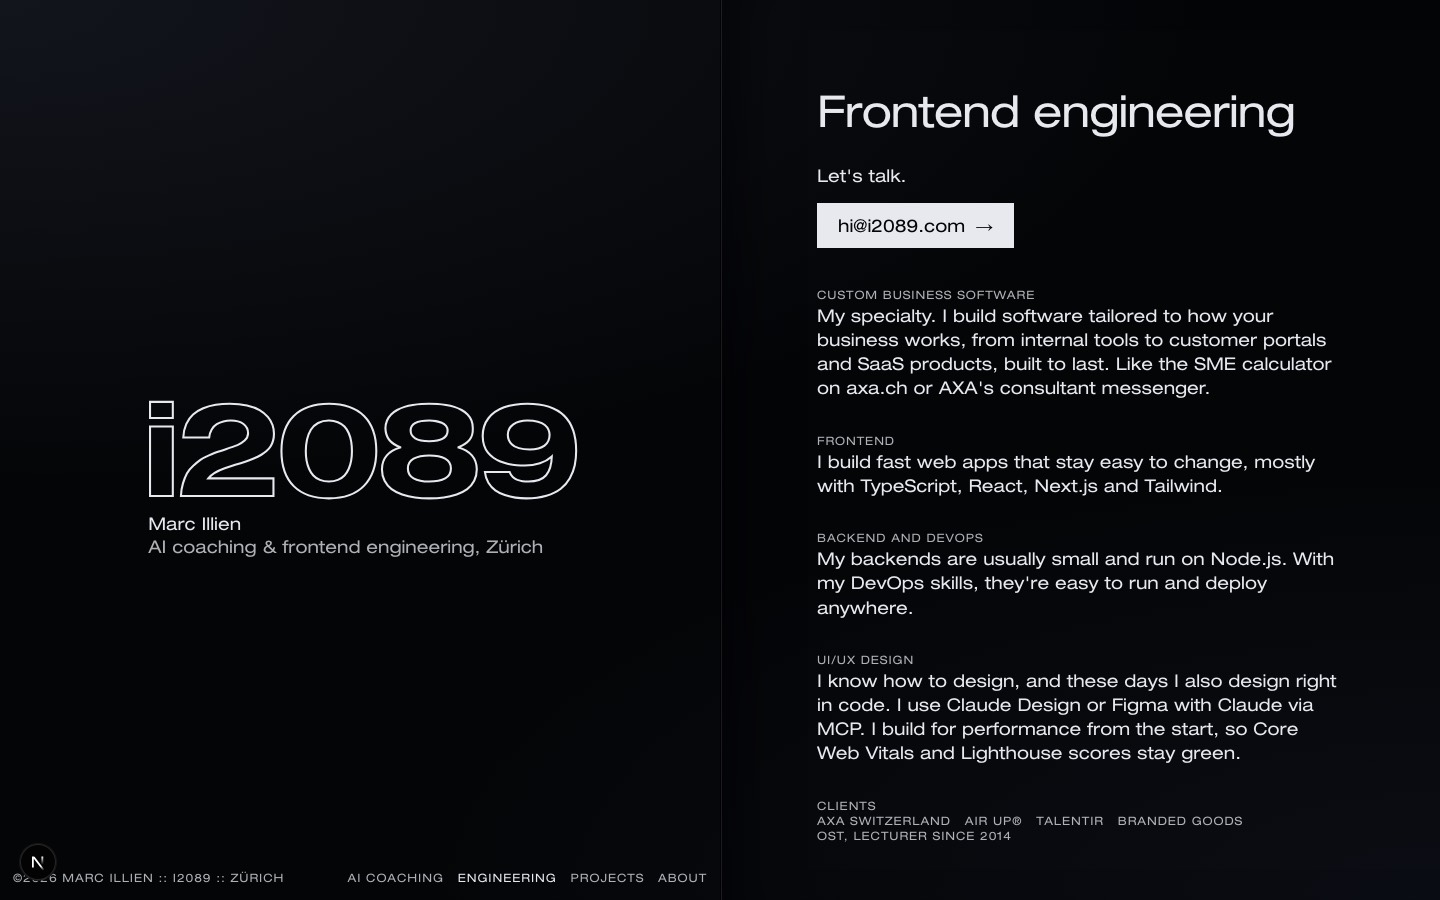
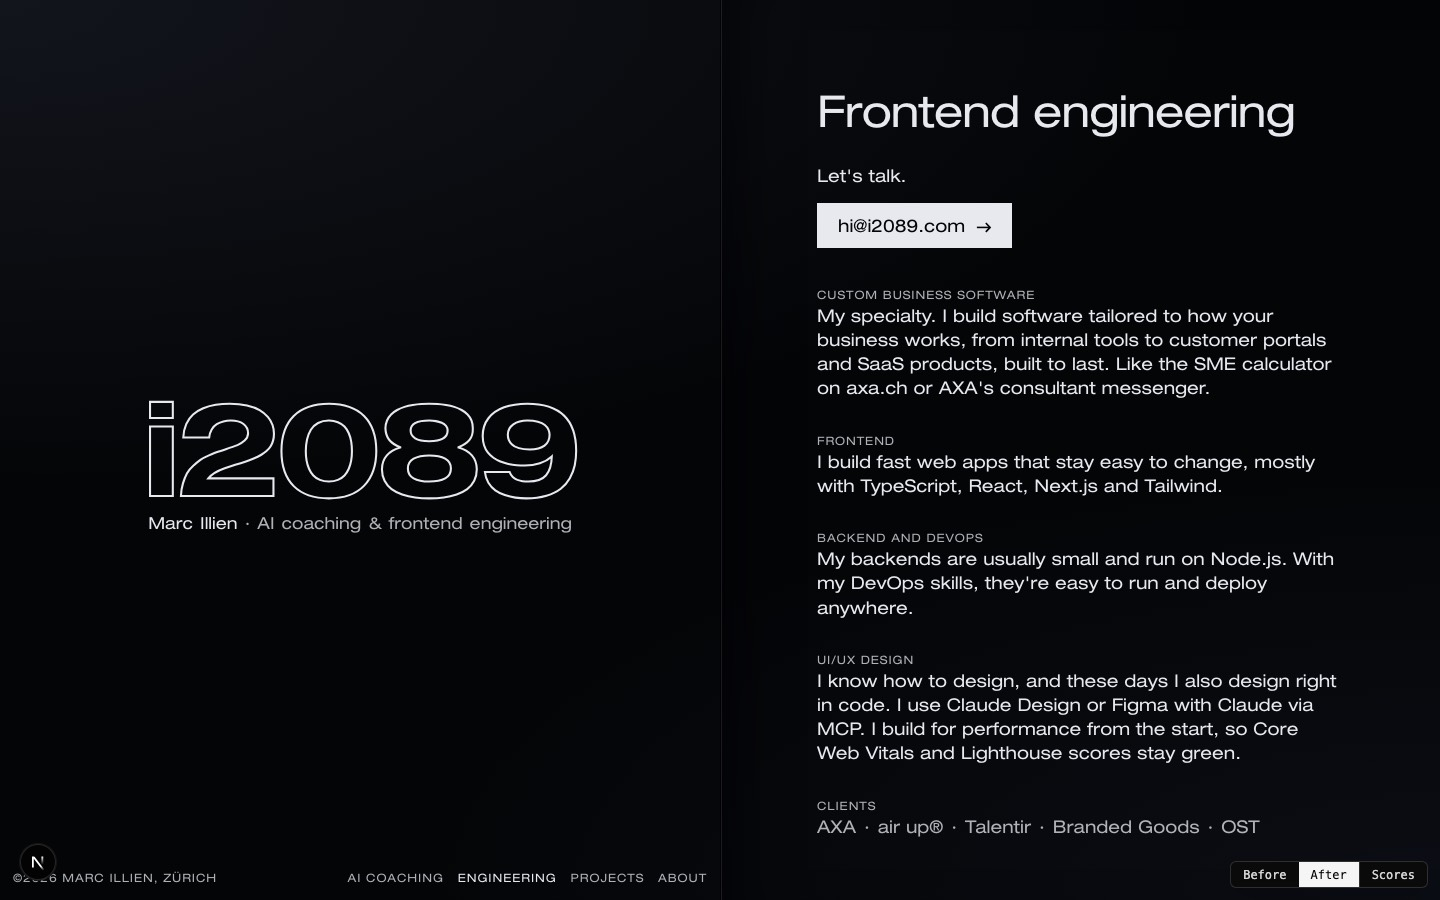
PFD report: round 2 notes and fresh after evidence

diff --git a/app/_compare/scores.ts b/app/_compare/scores.ts
@@ -22,7 +22,7 @@ const detail = (title: string): PageScore => ({
     "Contact: y 1094–1244 px, 13 px text link → y 203 px, filled, 45 px tall",
     "Nav: 0 → 2 offer links, so the page leads back to the offers",
     "Mobile first row: 210 px → 150 px; body 13 → 15 px",
-    "Tap targets: smallest 9 px → 30 px",
+    "Tap targets: smallest 9 px → 33 px",
     "Share image: none → yes",
   ],
   open: [`${title}: one outcome line (TODO(marc) in content.ts)`],
@@ -33,14 +33,15 @@ export const SCORES: Record<string, PageScore> = {
     before: { L0: 80, L1: 55, L2: 80, L3: 30, L4: 30 },
     after: { L0: 84, L1: 70, L2: 85, L3: 55, L4: 68 },
     evidence: [
+      "Arrows: fallback system glyphs → drawn to the font's metrics",
       "Bands: text changed every 10 s → fixed labels with arrows",
-      "Name: 11 px tracked caps → 17.6 px, with the offer",
-      "Contact: none → filled button at y 727 px (desktop)",
+      "Name: 11 px tracked caps → 16.6 px, one line justified to the logo",
+      "Contact: none → filled button at y 785 px (desktop)",
       "Client line: 0 → 5 names, each linked to its proof",
       "Nav: 0 → 2 offer links",
     ],
     open: [
-      "Mobile: contact sits below the first screen (y 938 px); the bands are the first-screen next steps",
+      "Mobile: contact sits below the first screen (y 934 px); the bands are the first-screen next steps",
       "Anonymous AI result (TODO(marc))",
     ],
   },

diff --git a/docs/pfd/2026-11-11/report.md b/docs/pfd/2026-11-11/report.md
@@ -235,20 +235,32 @@ No caps. Spread 58–85. The weakest layer is still L3, because the lead offer h
 | Fix | Before | After |
 |---|---|---|
 | Contact on subpages (desktop) | text link, 13 px tall, y 791–1372 px (below the fold on 6 of 7 subpages) | filled button, 45 px tall, y 203–249 px (in the first screen on every subpage) |
-| Contact on home | none | filled button, y 727 px desktop; y 938 px mobile (below the first screen) |
+| Contact on home | none | filled button, y 785 px desktop; y 934 px mobile (below the first screen) |
 | Offer pages in the nav | 0 | 2 (AI coaching, Engineering) |
 | Multipliers in visible copy | 1–5 per page ("10x", "50x", "5x to 10x") | 0, also in meta descriptions |
-| Name size | 11.1 px desktop, 9 px mobile, tracked caps | 17.6 px desktop, 15 px mobile home |
+| Name size | 11.1 px desktop, 9 px mobile, tracked caps | 16.6 px desktop (justified to the logo), 15 px mobile home |
 | Home bands | text changes within 6 s (typewriter) | static |
 | Client line | none | 5 names, each linked to its proof, on home, `/ai-solutions`, `/engineering` |
+| Arrows | → ← ↗ drawn by a fallback system font (not in Helvetica Neue LT Pro) | one SVG arrow drawn to the font's measured stem, crossbar and dash axis |
+| Contact address on a page | twice (top and foot) | once |
 | AXA case | hidden (404) | `/projects/axa` |
 | Mobile body text | 13 px | 15 px |
-| Smallest tap target | 9 px (mobile) | 24 px (mobile), 25 px (desktop) |
+| Smallest tap target | 9 px (mobile) | 33 px (mobile), 35 px (desktop) |
 | Title weight | `500` requested, only 400/700 loaded | `400`, as rendered |
 | Card text colour | `#fff` (ΔE 5.4 off `--np-fg`) | `--np-fg` |
 | Selection colour | `#ededed` / `#222` (near-misses) | `--np-fg` / `--np-surface` |
 | Share image on subpages | none | all 9 pages |
 | Mobile subpage first row | 210 px | 150 px |
+
+### Round 2 (review feedback, 2026-11-12)
+
+- **One address per page:** the foot no longer repeats hi@i2089.com. The foot shows LinkedIn on About only.
+- **Arrows:** Helvetica Neue LT Pro has no arrow glyphs, so →, ← and ↗ came from a system font. `app/_shared/arrow.tsx` draws them to the font's own metrics (per 1000 units: crossbar 92, en dash axis 280 above the baseline, x-height 524), with square ends and a sharp tip. The ↻ on the error page went for the same reason.
+- **Lockup:** from 1280 px the byline is one line, justified from the stem of the "i" to the edge of the "9" ("Marc Illien · AI coaching & frontend engineering", 0.128 of the logo size). Below 1280 px that size would drop under 14 px, so the name alone sits centred under the mark.
+- **Footer weight:** the client line is a label over one line of names in body type with "·" separators, like every other entry, instead of three lines of tracked capitals. The copyright is shorter ("©2026 Marc Illien, Zürich") and hides between 768 and 1280 px, where it collided with the four nav links.
+- **Home rows:** each row takes at least its content (no more overflow through the groove lines at 1024 and 1280 px).
+
+Scores are unchanged by round 2: the changes remove noise the rubric did not score, so I do not claim points for them. The interactive count in `evidence-after.json` includes the three dev-only toggle buttons.
 
 ### Decisions
 
